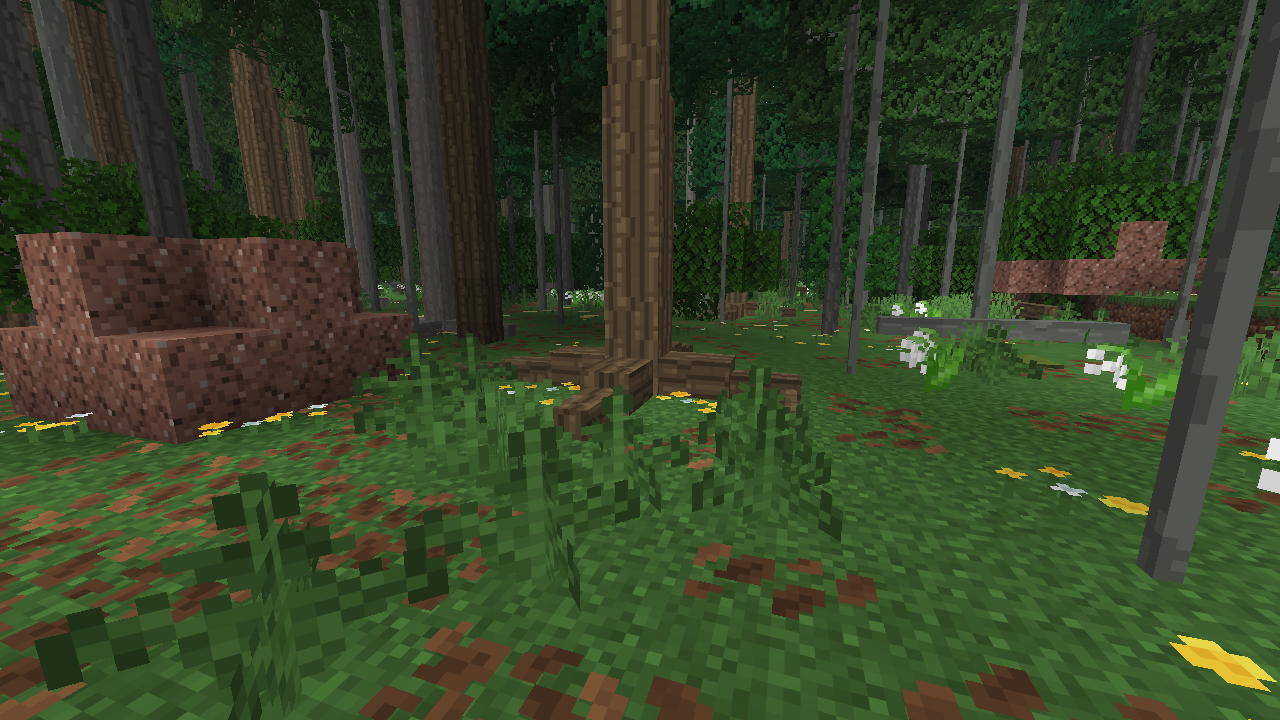
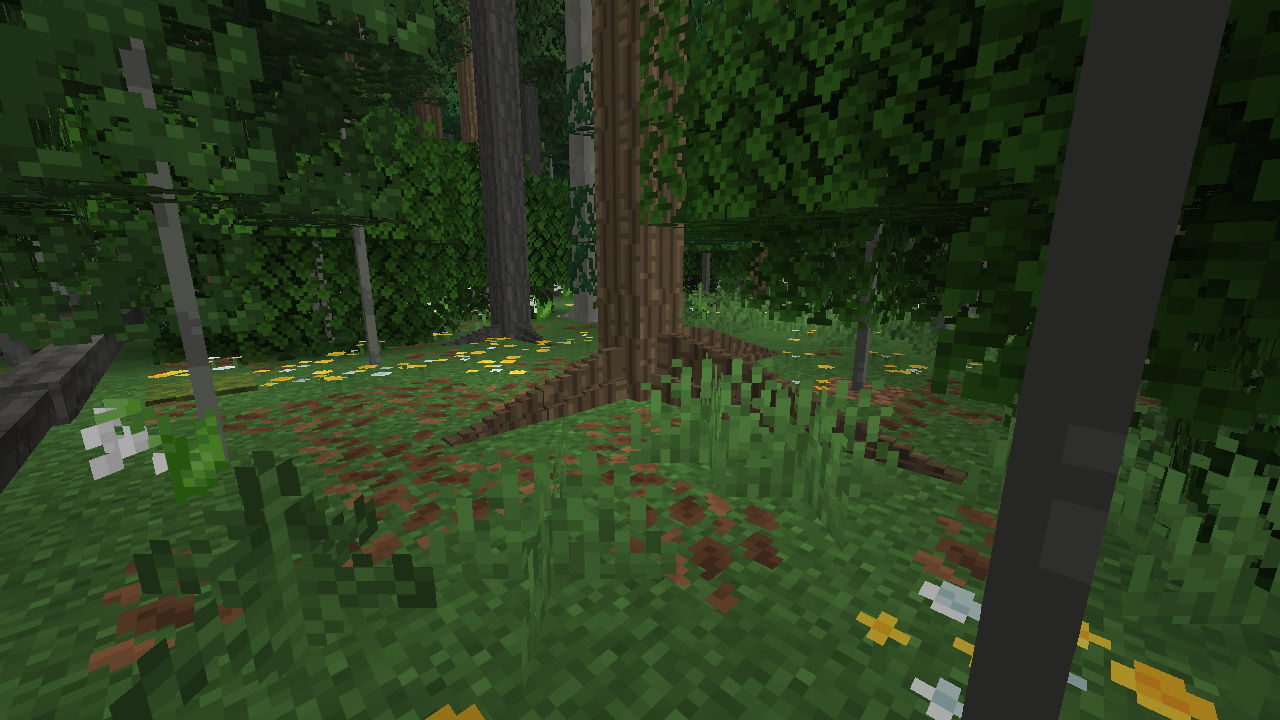
K1 review fixes, round 1
- Root flares are fins (same block properties, the radius is the stage of FlareProfile): highest at the trunk, sloping down along each block into the ground, straight out from the trunk faces with no elbows or crossbars
- Flares only on trunks of at least 4 px, old trees up to four of their own lengths and a full cross only now and then, mature trees one or two; pine and birch at most a widening of the base
- Lateral roots without rotational symmetry: turned azimuths, own lengths, a softly wandering path with no hook at the tip
- The roots game test counts the columns of its own trenches apart; roots and determinism game tests pass, max free-order difference 0.075%
- docs/04 round 1 section, minor findings DP-36 to DP-44, G.21 I1-q to I1-s, new board and world shots

diff --git a/docs/BRIEF.md b/docs/BRIEF.md
@@ -10,7 +10,7 @@ Mod Fabric do Minecrafta 26.3 (Java 25, Loom, Gradle 9.7, JDK z `gradle.properti
 
 - M0, M1 i M2 zamknięte (M2: punkty kontrolne 1 i 2 przyjęte 2026-10-14; decyzje M2-13 … M2-27 domyślne, do potwierdzenia, `docs/00` E).
 - Pionowy wycinek (grąd i bór świeży, plan `docs/04-pionowy-wycinek.md`), część 1 zrobiona: V0, V1, V2 (+V2b), V3, V5, CP-A (styl tekstur i cienki pień przyjęte, `docs/00` G.9).
-- Część 2: **V1b** (wygładzenie tekstur), **V4** (karta norm, pomiar bazowy M2: `docs/wycinek/karta-norm-m2.md`) i **V6** (planer drzew `TreeShapePlan`, ficzer `procedural_tree`, podgląd `docs/wycinek/drzewa/`; świat jeszcze bez nowych drzew, podłącza je V9) zrobione; runda 1 przeglądu V6: faliste powierzchnie podziału pięter zamiast pasm, gałęzie jako krzywe bez kolanek i haków, drzewa wolnostojące (pytanie do CP-B: kompromis N2, `docs/04` „Runda 1 poprawek po przeglądzie V6”); runda 2: iglica świerka jako kolumna igieł. **V7** zrobione (liście gatunków z fazą drzewa, krzywe kolorów `season/FoliageCurve` i `SeasonPhase`, sadzonki rosnące w drzewo planera, LITE sosny; `docs/04` „Stan po V7”, zrzuty `docs/wycinek/liscie/`); runda 1 przeglądu V7: zimą jasna mgiełka gałązek zamiast brązu, marcescencja tylko młodych drzew i dolnych koron, paleta lata (ΔE ≥ 6), sadzonki na ziemi uprawnej, jawna data w testach (`docs/04` „Runda 1 poprawek po przeglądzie V7”); runda 2: ujęcia `canopy` zmieniają tylko porę dnia, nie datę (`SeasonDates.setTimeOfDay`). **V9** zrobione (`ForestStandMap`: wydzielenia, gospodarczy/naturalny według D9, klasy wieku, luki; palety pięter wycinka z drzewami planera pod `tree/`, zastępstwa M2 pod `tree_substitute/`; pas na granicach chunków usunięty wariantem (i+); spis karty norm według wydzieleń, `slice_plots.txt`; `docs/04` „Stan po V9”, drobne wybory G.14); runda 1 przeglądu V9: luki bez kraty (proces skupiskowy, N5 jako średnia do CP-B), pędy górnej korony w „rękawie” liści i bez gołych gałęzi bocznych, niskie gałęzie i gęstszy płaszcz na skraju z polem, krzewy i jarząb na cienkich pędach, więcej graba w grądzie naturalnym, widoki powierzchni próbnych w `slice` (`docs/04` „Runda 1 poprawek po przeglądzie V9”, G.14 V9-c′, V9-q … V9-x); runda 2: bez gołych ramion i haków u spodu koron (bez kikutów na pniach liściastych, liść pod gałęzią, rękaw dolnej korony w kolumnach drzewa, miara `X.bare_arms_per_chunk` i progi `CrownCover`), smukła kruszyna i wielopniowa leszczyna bez blatów (`docs/04` „Runda 2 poprawek po przeglądzie V9”, G.14 V9-x′ … V9-af). **V10** zrobione (A/B z bazą M2: cały chunk ≤ 48 ms, budżety FEATURES ≤ 2 × i LIGHT ≤ 1,75 × do CP-B, FPS z paczką 0,83–1,04 × M2, chunki na sekundę z C2ME 0,71–0,81 × (dwie sesje, wszystkie miejsca) poniżej progu PW-10, ciemniejszy grąd; pomijane drzewa okapu z koroną zdegenerowaną lub rzadką, pień bez skrzydełek; warianty do CP-B w `docs/04` „Stan po V10”, G.15; lista „Do kroku porządkowego” na końcu `docs/04`); runda 1 przeglądu V10: kolumny przy pniu w terytorium pnia, rękaw strzały i przycięte zadarte końcówki drzew liściastych okapu (szare pnie nad okapem w grze, V10-j), chunki na sekundę z obu sesji pomiaru (`docs/04` „Runda 1 poprawek po przeglądzie V10”). **CP-B** przyjęty (`docs/00` G.16: wygląd lasu, krok optymalizacji przed V11, start w LATE_SPRING; zamrożenie zapisu PW-11). **O1** zrobione (optymalizacja drzewostanu według profilu JFR: wspólne pamięci wątków dla kandydatów, wydzieleń i terytoriów, wynik generacji identyczny; chunki na sekundę z C2ME 0,78–0,81 × M2, FEATURES ≤ 1,49 ×, LIGHT ≤ 1,44 ×; `docs/04` „Stan po O1”, G.17). **Z1** zrobione (poprawki CP-B: szerokie przejście palet czterech lasów transektu `ForestBlend` ok. 45–50 m·k, drzewa planera zamiast zastępstw M2 w okapie blisko lasów wycinka, nowy świat w LATE_SPRING z kalendarzem i zalecaną konfiguracją SS w `.mrpack`; karta: `N15.palette_width` w normie, wskaźnik „mchy − ściółka” tylko rozstrzygnięty; `docs/04` „Stan po Z1”, G.18; prośby użytkownika z 2026-10-25 jako kroki I1 korzenie, G1 mody do ścinania, K1 cieńsza pokrywa nad skałą; runda 1 przeglądu: wspólna pamięć węzłów pola, A/B chunki na sekundę z C2ME 0,76–0,81 × M2 i bez zmiany wobec O1, FEATURES +4% w budżecie, regresje `ecotones`, `vegetation`, `present_day` PASS). **K1** zrobione (cienka pokrywa osadów: ustawienie świata `loose_cover`, `thin` domyślne w nowych światach, na nizinach 4–10 bloków nad kamieniem, brak pola = dawna pokrywa bez szwu, model i złoty test bez zmian; `docs/04` „Stan po K1”, G.19; runda 1 przeglądu: ekran „Dostosuj” mieści się w oknie 854 × 480, objaśnienia w podpowiedziach, K1-g). **V11** zrobione (martwe drewno: `tree/DeadwoodPlan` — kłody, posusz, złomy, wykroty z talerzem i dołem, pniaki z planera; `DeadwoodFeature` `deadwood/<gatunek>` i `stump/<gatunek>` w lasach wycinka, zwalone drzewa M2 pod `deadwood_substitute/`; las naturalny na poziomie rezerwatów, gospodarczy według WISL z pniakami; spis: stojące martwe drewno bez liści sąsiadów, `N10.pieces_per_chunk`; `docs/04` „Stan po V11”, G.20); runda 1 przeglądu: kłody leżą bez powietrza pod spodem (1 blok tylko pojedynczo, bez „poręczy”), pełny talerz wykrotu z korzeniami od strony dołu, cienkie martwe drzewa podokapowe jako drzewa okapu (strata ok. 1/3 kłód sosny gospodarczej), N10 tylko na powierzchniach z ≥ 80% jednego stanu (`N10.stand_share`); karta `karta-norm-v11-r1`: jedna średnia poza tolerancją (grąd gospodarczy REAL D 0,335 przy 0,325, odstępstwo do CP-C). **I1** zrobione (korzenie: planer `tree/RootPlan` — nabiegi starszych drzew okapu z nowych bloków `<gatunek>_root_flare` leżących na gruncie, korzenie w gruncie z bloku `tree_root` i `rooted_dirt`, bez styku i wspólnych bloków drzew (komórki Woronoja kandydatów); talerze wykrotów z tych korzeni; migawka rejestru świadomie przegenerowana (10 nowych bloków); chunki na sekundę z C2ME 0,72–0,82 × M2, FEATURES +5% w medianie; `docs/04` „Stan po I1”, G.21). **Następne:** V12 / G1 według planu.
+- Część 2: **V1b** (wygładzenie tekstur), **V4** (karta norm, pomiar bazowy M2: `docs/wycinek/karta-norm-m2.md`) i **V6** (planer drzew `TreeShapePlan`, ficzer `procedural_tree`, podgląd `docs/wycinek/drzewa/`; świat jeszcze bez nowych drzew, podłącza je V9) zrobione; runda 1 przeglądu V6: faliste powierzchnie podziału pięter zamiast pasm, gałęzie jako krzywe bez kolanek i haków, drzewa wolnostojące (pytanie do CP-B: kompromis N2, `docs/04` „Runda 1 poprawek po przeglądzie V6”); runda 2: iglica świerka jako kolumna igieł. **V7** zrobione (liście gatunków z fazą drzewa, krzywe kolorów `season/FoliageCurve` i `SeasonPhase`, sadzonki rosnące w drzewo planera, LITE sosny; `docs/04` „Stan po V7”, zrzuty `docs/wycinek/liscie/`); runda 1 przeglądu V7: zimą jasna mgiełka gałązek zamiast brązu, marcescencja tylko młodych drzew i dolnych koron, paleta lata (ΔE ≥ 6), sadzonki na ziemi uprawnej, jawna data w testach (`docs/04` „Runda 1 poprawek po przeglądzie V7”); runda 2: ujęcia `canopy` zmieniają tylko porę dnia, nie datę (`SeasonDates.setTimeOfDay`). **V9** zrobione (`ForestStandMap`: wydzielenia, gospodarczy/naturalny według D9, klasy wieku, luki; palety pięter wycinka z drzewami planera pod `tree/`, zastępstwa M2 pod `tree_substitute/`; pas na granicach chunków usunięty wariantem (i+); spis karty norm według wydzieleń, `slice_plots.txt`; `docs/04` „Stan po V9”, drobne wybory G.14); runda 1 przeglądu V9: luki bez kraty (proces skupiskowy, N5 jako średnia do CP-B), pędy górnej korony w „rękawie” liści i bez gołych gałęzi bocznych, niskie gałęzie i gęstszy płaszcz na skraju z polem, krzewy i jarząb na cienkich pędach, więcej graba w grądzie naturalnym, widoki powierzchni próbnych w `slice` (`docs/04` „Runda 1 poprawek po przeglądzie V9”, G.14 V9-c′, V9-q … V9-x); runda 2: bez gołych ramion i haków u spodu koron (bez kikutów na pniach liściastych, liść pod gałęzią, rękaw dolnej korony w kolumnach drzewa, miara `X.bare_arms_per_chunk` i progi `CrownCover`), smukła kruszyna i wielopniowa leszczyna bez blatów (`docs/04` „Runda 2 poprawek po przeglądzie V9”, G.14 V9-x′ … V9-af). **V10** zrobione (A/B z bazą M2: cały chunk ≤ 48 ms, budżety FEATURES ≤ 2 × i LIGHT ≤ 1,75 × do CP-B, FPS z paczką 0,83–1,04 × M2, chunki na sekundę z C2ME 0,71–0,81 × (dwie sesje, wszystkie miejsca) poniżej progu PW-10, ciemniejszy grąd; pomijane drzewa okapu z koroną zdegenerowaną lub rzadką, pień bez skrzydełek; warianty do CP-B w `docs/04` „Stan po V10”, G.15; lista „Do kroku porządkowego” na końcu `docs/04`); runda 1 przeglądu V10: kolumny przy pniu w terytorium pnia, rękaw strzały i przycięte zadarte końcówki drzew liściastych okapu (szare pnie nad okapem w grze, V10-j), chunki na sekundę z obu sesji pomiaru (`docs/04` „Runda 1 poprawek po przeglądzie V10”). **CP-B** przyjęty (`docs/00` G.16: wygląd lasu, krok optymalizacji przed V11, start w LATE_SPRING; zamrożenie zapisu PW-11). **O1** zrobione (optymalizacja drzewostanu według profilu JFR: wspólne pamięci wątków dla kandydatów, wydzieleń i terytoriów, wynik generacji identyczny; chunki na sekundę z C2ME 0,78–0,81 × M2, FEATURES ≤ 1,49 ×, LIGHT ≤ 1,44 ×; `docs/04` „Stan po O1”, G.17). **Z1** zrobione (poprawki CP-B: szerokie przejście palet czterech lasów transektu `ForestBlend` ok. 45–50 m·k, drzewa planera zamiast zastępstw M2 w okapie blisko lasów wycinka, nowy świat w LATE_SPRING z kalendarzem i zalecaną konfiguracją SS w `.mrpack`; karta: `N15.palette_width` w normie, wskaźnik „mchy − ściółka” tylko rozstrzygnięty; `docs/04` „Stan po Z1”, G.18; prośby użytkownika z 2026-10-25 jako kroki I1 korzenie, G1 mody do ścinania, K1 cieńsza pokrywa nad skałą; runda 1 przeglądu: wspólna pamięć węzłów pola, A/B chunki na sekundę z C2ME 0,76–0,81 × M2 i bez zmiany wobec O1, FEATURES +4% w budżecie, regresje `ecotones`, `vegetation`, `present_day` PASS). **K1** zrobione (cienka pokrywa osadów: ustawienie świata `loose_cover`, `thin` domyślne w nowych światach, na nizinach 4–10 bloków nad kamieniem, brak pola = dawna pokrywa bez szwu, model i złoty test bez zmian; `docs/04` „Stan po K1”, G.19; runda 1 przeglądu: ekran „Dostosuj” mieści się w oknie 854 × 480, objaśnienia w podpowiedziach, K1-g). **V11** zrobione (martwe drewno: `tree/DeadwoodPlan` — kłody, posusz, złomy, wykroty z talerzem i dołem, pniaki z planera; `DeadwoodFeature` `deadwood/<gatunek>` i `stump/<gatunek>` w lasach wycinka, zwalone drzewa M2 pod `deadwood_substitute/`; las naturalny na poziomie rezerwatów, gospodarczy według WISL z pniakami; spis: stojące martwe drewno bez liści sąsiadów, `N10.pieces_per_chunk`; `docs/04` „Stan po V11”, G.20); runda 1 przeglądu: kłody leżą bez powietrza pod spodem (1 blok tylko pojedynczo, bez „poręczy”), pełny talerz wykrotu z korzeniami od strony dołu, cienkie martwe drzewa podokapowe jako drzewa okapu (strata ok. 1/3 kłód sosny gospodarczej), N10 tylko na powierzchniach z ≥ 80% jednego stanu (`N10.stand_share`); karta `karta-norm-v11-r1`: jedna średnia poza tolerancją (grąd gospodarczy REAL D 0,335 przy 0,325, odstępstwo do CP-C). **I1** zrobione (korzenie: planer `tree/RootPlan` — nabiegi starszych drzew okapu z nowych bloków `<gatunek>_root_flare` leżących na gruncie, korzenie w gruncie z bloku `tree_root` i `rooted_dirt`, bez styku i wspólnych bloków drzew (komórki Woronoja kandydatów); talerze wykrotów z tych korzeni; migawka rejestru świadomie przegenerowana (10 nowych bloków); chunki na sekundę z C2ME 0,72–0,82 × M2, FEATURES +5% w medianie; `docs/04` „Stan po I1”, G.21; runda 1 przeglądu: nabiegi jako płetwy prosto od ścian pnia (te same właściwości bloku, `FlareProfile`), od pnia 4 px, bez krzyża u drzew dojrzałych, korzenie boczne bez wiatraczka, G.21 I1-q … I1-s). **Następne:** V12 / G1 według planu.
 - Tor sarny **V8** gotowy na gałęzi `slice-fauna` (model i kalibracja GeckoLib, runda 1 poprawek), **wstrzymany przez użytkownika, nie scalać**.
 
 ## Konwencje

diff --git a/docs/04-pionowy-wycinek.md b/docs/04-pionowy-wycinek.md
@@ -2166,6 +2166,23 @@ Próg CP-B (chunki na sekundę z C2ME ≥ 0,7 × M2) spełniony (najniżej 0,72)
 
 **Testy kroku:** `RootPlanTest`, `TrunkShapeTest`, `RegistrySnapshotTest` (przegenerowany), `DeadwoodPlanTest`, `ProceduralTreeStatesTest`, `fastTest`, `checkDatagen`, `checkArt`, gametesty `slice -Psites=roots` (PASS), `slice -Psites=none` (4 światy), `determinism` (PASS; kontrolnie także na `1479953`), A/B wyżej, pełny zestaw `tools/dev/run-tests test` (PASS, 1127 s, drzewo `7001423902ef`; różni się od commitu tylko tym zdaniem).
 
+### Runda 1 poprawek po przeglądzie I1 (2026-10-26)
+
+Przegląd (zlecenie nazywało go „K1”): 4 sprawy główne, wszystkie prawdziwe i poprawione, oraz 10 drobnych (sprawdzone; według progu z 2026-10-21 bez poprawek, na liście „Do kroku porządkowego” DP-36 … DP-44; dwie z nich zniknęły przy poprawkach głównych, niżej). Decyzje domyślne: `docs/00` G.21 I1-q … I1-s (I1-e i I1-h zmienione).
+
+- **Kolanka i poprzeczki nabiegów** (geometria, `RootPlan.flare`): prawda — nabieg skręcony do ±35° od ściany pnia robił marszem po siatce drugi krok w bok (kolanko „L” wzdłuż pnia), a odgałęzienia pod 45° z pierwszego bloku stawały poprzeczką przy pniu. Teraz każdy nabieg biegnie **prosto od ściany pnia** (bez skrętu i bez odgałęzień), każdy własnej długości; JUnit sprawdza, że każdy blok jest dalej od pnia niż rodzic (odległość środków kolumn), ma kierunek rodzica i stopień o 1 niższy, a ostatni blok ma stopień 1.
+- **Nabiegi jak klocki i ławki** (model, `RootFlareBlock`): prawda — pryzmat o stałym przekroju z płaskim wierzchem i pionowym końcem, z wysokością skaczącą między blokami. Teraz nabieg to **płetwa**: wąska (2–3,5 px), wysoka, na szerszej stopie (4–6,5 px, 40% wysokości), najwyższa przy pniu i opadająca wzdłuż bloku od h(s) do h(s − 1) (h = 0, 5, 10, 13, 15, 16 px; świerk niski i płaski 0, 2, 3, 4, 5, 6), więc wierzch przechodzi z bloku do bloku bez skoku, a ostatni blok schodzi do gruntu; przy pniu 10–13 px (płetwa „wspina się” na pień), model z 8 odcinków płetwy i 4 stopy (stopnie < 1 px) i z zasięgiem 8 px w głąb rodzica. **Właściwości bloku bez zmian** (`radius` 1–7 to teraz stopień profilu, `block/FlareProfile`), więc migawka rejestru i zapis (PW-11) bez zmian; zapis skraca stopnie nabiegu, którego dalszy blok nie wejdzie (`TreeRoots`), żeby i skrócony kończył się w gruncie. Przy okazji nieaktualny stał się drobiazg o komentarzu `defaultRadius` (nabieg postawiony przez gracza na boku bloku leży bez zakopania, na wierzchu gruntu stoi jak pień — komentarz poprawiony).
+- **Krzyż „+” / „T” u cienkich pni** (`RootPlan.flares`): prawda. Nabiegi dopiero od pnia **4 px** (wcześniej 3), starodrzew 3–4 od ścian w losowej kolejności (przy czterech w 35% jedna pominięta), drzewo dojrzałe 1–2 krótkie (0,35 liczby), sosna i brzoza 0–3 po 1 bloku (poszerzenie podstawy). Na tablicy: stary dąb 10 bloków, lipa 11, buk 9, jesion 7, klon 6, świerk 13, sosna 1; grab i brzoza (pień 3 px) i drzewa dojrzałe z pniem 3 px bez nabiegów, dojrzały dąb (4 px) dwa krótkie.
+- **Wiatraczek korzeni bocznych** (`RootPlan.laterals`, `strand`): prawda — równe azymuty i marsz po siatce z tym samym kątem do osi. Teraz azymut każdego korzenia ±30° od równego wachlarza, długość 0,6–1,2 ×, kierunek błądzi do ±15° na blok, najwyżej 60° od kierunku od pnia, droga po pół bloku przez wspólne ściany kolumn, w ostatnim bloku bez skrętu (bez haka na końcu), korzeń boczny tylko z korzenia bocznego ≥ 4 kolumn, „opadające” z miejsc na drodze korzenia (już nie w jednym rzędzie). `korzenie_gora.png` i `korzenie_przekroj.png` przegenerowane; JUnit: wachlarz nie jest równy (różnica przerw między azymutami ≥ 15° u ≥ 90% drzew).
+
+**Drobne** (DP-36 … DP-44): dno dołu wykrotu głębokości 2 na poziomie najpłytszych korzeni (DP-36; zdanie „doły kopią najwyżej 2 bloki” w javadoc `RootPlan` i w „Stan po I1” poprawione), nabieg na dolnej połowie wysokiej trawy z innego chunka (DP-37), koszt rysowania `tree_root` niezmierzony (DP-38), kryterium FEATURES +10% z jednego przebiegu (DP-39), pionowe pręty korzeni „opadających” (DP-40), szyja korzeniowa węższa od pnia (DP-41), puste kanały wokół `tree_root` na przekroju (DP-42), brak kadrów świerka i lipy w świecie (DP-43; kolanka świerka zniknęły z prostymi nabiegami), nabieg wzdłuż krawędzi tarasu (DP-44). Komentarz `defaultRadius` — wyżej.
+
+**Kontrola w grze** (`slice -Psites=roots`, `-PtimingsReportOnly`, PASS; zrzuty i arkusze w `docs/wycinek/korzenie/` podmienione): drzewa z korzeniami REAL N / D 31401 / 13643, GAMEPLAY N / D 29531 / 12543, z nabiegami 16,5 / 15,0 / 11,7 / 11,3% (przed rundą 22–27%), 1,87–2,26 bloku na drzewo z nabiegami, zapisane 98,2–98,6% bloków nabiegów i 97,4–98,6% korzeni, **0 styków nabiegów dwóch drzew**, 0 nabiegów bez pełnego bloku pod spodem i 0 korzeni płycej niż 2 bloki poza rowami testu. Gametest liczy teraz osobno kolumny rowów, które sam wykopał (nabiegi nad rowem 3 w REAL N i 7 w GAMEPLAY N, korzenie odsłonięte 44 i 27): pierwszy przebieg rundy padł na progu 0,1% „nabiegów nad powietrzem” w GAMEPLAY N (7 przy 6707 blokach), a wszystkie te nabiegi stały nad rowem testu — tak też trzeba czytać „0–4 na świat” ze „Stanu po I1”. Kadry obejrzane na arkuszach (podejrzane w pełnej rozdzielczości): z bliska i z wysokości oczu nabiegi dębu i buka czytają się jako płetwy przy pniu, bez ławek i kolanek; świerk ma długie, niskie listwy; odkopany system korzeni wężykuje, bez wiatraczka (zostają pionowe pręty „opadających”, DP-40). Część kadrów oka w GAMEPLAY i nowy `trench_above` REAL zasłaniają liście (jak DP-27); w `docs/wycinek/korzenie/` zostaje `roots_realistic_natural_oak_hornbeam_natural_1_trench_above_oak.png` z przebiegu I1 (korzenie sprzed rundy).
+
+**Bez pomiaru czasu** w tej rundzie (zlecenie: pomiary tylko na spokojnej maszynie): nabiegów jest mniej (ok. 30–45% mniej bloków), ale model płetwy ma ok. 50 czworokątów wobec ok. 27 pryzmatu; planer korzeni robi drogę po pół bloku zamiast marszu DDA. Pomiar przy najbliższym A/B (DP-38, DP-39).
+
+**Testy rundy:** `RootPlanTest` (7), `TrunkShapeTest`, `DeadwoodPlanTest`, `RegistrySnapshotTest` (bez zmian migawki), `fastTest`, `runDatagen` + `checkDatagen`, `rootPreview`, gametest `slice -Psites=roots` (PASS), gametest `determinism` (`-PtimingsReportOnly`, PASS: kolejność stała 0 różnic we wszystkich obszarach, kolejność dowolna najwyżej 0,075% bloków okna, REAL D `fresh_pine`, próg 0,5%), pełny zestaw `tools/dev/run-tests test` (PASS, 1100 s, drzewo `f70a1c675537`; od commitu różni się tylko dokumentacją rundy). Złoty test terenu i migawka rejestru bez zmian.
+
 ## Do kroku porządkowego (lista drobiazgów z recenzji)
 
 Lista założona w V10 według decyzji użytkownika z 2026-10-21 (`docs/00` F, P4): drobiazgi widoczne tylko na zbliżeniach albo w pomiarach bez wpływu na grę nie są poprawiane od razu, tylko trafiają tutaj; zbiorczy krok porządkowy na końcu kamienia milowego przegląda listę i poprawia, co warto. Każdy wpis: krok, w którym powstał, opis, gdzie szukać, propozycja. Wpis usuwamy (albo przekreślamy z commitem), gdy jest zrobiony.

diff --git a/CHANGELOG.md b/CHANGELOG.md
@@ -8,7 +8,7 @@ Versions are published to Modrinth and GitHub Releases by the `Release` workflow
 - **Wider forest transitions.** Fresh pine, mixed pine, mixed and oak-hornbeam forests now blend their tree species, lower layers and ground flora over about 50 blocks in the 1:1 world and 25 blocks in the gameplay world, following the shape of the border.
 - **Stone closer to the surface in the lowlands.** New worlds have a thin loose cover: under the soil only a few blocks of sand, clay, alluvium or mud (4–10 blocks in all, varying smoothly), then stone with its ores. River banks, dunes and cliffs never show stone in their sides; foothills and mountains are unchanged. The *Loose Cover* option on the Customize screen switches back to the realistic cover (sand and clay tens of blocks deep). Worlds created before this version keep the realistic cover, also in newly generated chunks, so there is no seam.
 - **No band of vanilla stand-in trees by the new forests.** Narrow strips and patches of other lowland forests inside the oak-hornbeam, pine and mixed forests (for example the ash-alder belt of a stream) now grow the trees of the surrounding forest, and canopy stand-ins of the nine species with own models nearby grow as the mod's own trees. Larger alder carrs and floodplain forests keep their own trees beyond a mixed edge.
-- **Tree roots.** Old oaks, beeches, lindens and hornbeams of the new forests spread root flares over the ground at the trunk base (fewer on maples and ashes, long flat surface roots on spruces, small ones on pines and birches); they belong to the tree. Under every tree of the new forests a root system grows in the soil, two to six blocks deep, with rooted dirt around it, which you find when digging and see in steep banks; under an open space it ends in hanging roots. The roots of windthrows stand up with their root plates. New blocks: a root flare for each of the nine species and the tree root.
+- **Tree roots.** Old oaks, beeches and lindens of the new forests grow root flares at the trunk base: buttresses that climb the foot of the trunk and slope down into the ground (fewer on maples and ashes, long flat surface roots on spruces, a small widening on old pines); mature trees have one or two. They belong to the tree. Under every tree of the new forests a root system grows in the soil, two to six blocks deep, with rooted dirt around it, which you find when digging and see in steep banks; under an open space it ends in hanging roots. The roots of windthrows stand up with their root plates. New blocks: a root flare for each of the nine species and the tree root.
 - **The Customize screen fits a small window again.** The explanations below the buttons moved into tooltips, so the Scale button no longer slides off the top of the screen at the default window size.
 
 ## [0.2.0-alpha.2]
